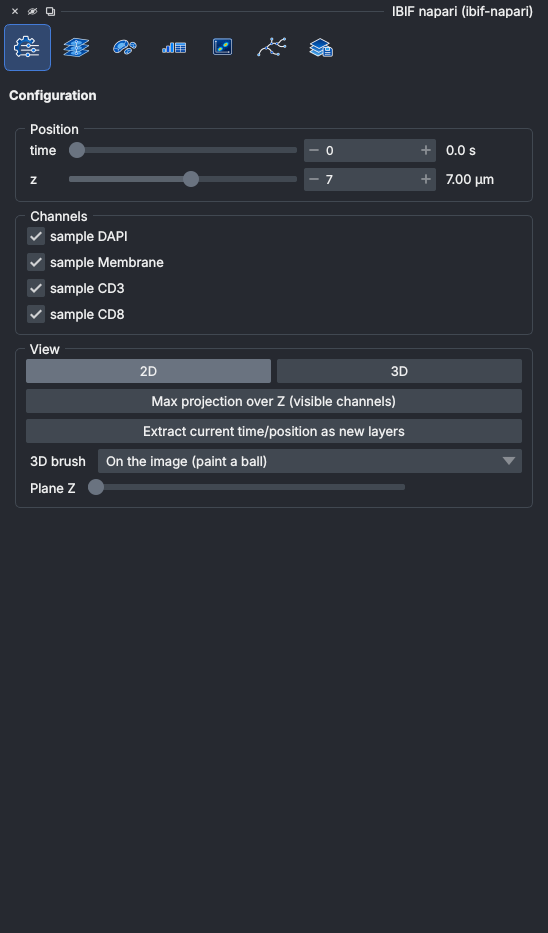
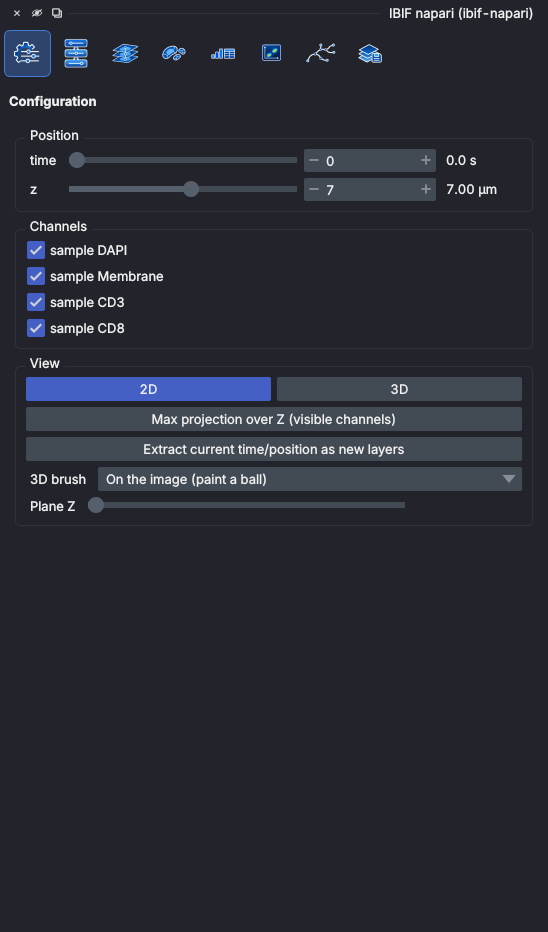
User guide: missing references and the newer features throughout (0.37.1)
References: VTEA's integrated cytometry paper (Winfree et al. 2023, Lab Invest,
PMID 36867975), cited in Cytometry, Neighbourhoods and Classification; NephNet3D
(Woloshuk et al. 2021); Benjamini & Hochberg; openTSNE; igraph; and a new
Processing group (IMART, phase correlation, Fourier rotation, Lucas-Kanade,
BaSiC, Richardson-Lucy) cited in the registration settings. Every citation in
the text now has its reference. docs/cytometry.md asks users to cite VTEA.

Completeness: Processing in the overview flowchart and table, the panel
screenshot and caption, saving, reporting, V&V, troubleshooting and glossary;
inclusions in the Secondary objects heading, the overview, reporting and
troubleshooting; the Cytometry overview lists its spatial, classification and
trajectory tabs.

Claude-Session: https://claude.ai/code/session_01J219xaVE2skdyHBwgvmFsC

diff --git a/src/ibif_napari/__init__.py b/src/ibif_napari/__init__.py
@@ -1,1 +1,1 @@
-__version__ = "0.37.0"
+__version__ = "0.37.1"

diff --git a/src/ibif_napari/manual/README.md b/src/ibif_napari/manual/README.md
@@ -25,7 +25,7 @@ section.
 6. [Configuration: moving through time, positions and Z](#6-configuration-moving-through-time-positions-and-z)
    - [6.1 Processing: correcting the image before segmenting](#61-processing-correcting-the-image-before-segmenting)
 7. [Segmentation: Cellpose, or threshold + watershed](#7-segmentation-cellpose-or-threshold--watershed)
-8. [Secondary objects: cells, cytoplasm, rings and rims](#8-secondary-objects-cells-cytoplasm-rings-and-rims)
+8. [Secondary objects: cells, cytoplasm, rings, rims and inclusions](#8-secondary-objects-cells-cytoplasm-rings-rims-and-inclusions)
 9. [Measurements](#9-measurements)
 10. [Cytometry: gating, phenotypes and clustering](#10-cytometry-gating-phenotypes-and-clustering)
 11. [Filament tracing](#11-filament-tracing)
@@ -48,8 +48,10 @@ looks like this:
 ```mermaid
 flowchart LR
     A[Open ND2 / CZI / LIF] --> B[Configuration<br/>choose time, position, channels]
-    B --> C[Segmentation<br/>Cellpose: nuclei or cells]
-    C --> D[Secondary objects<br/>whole cells, cytoplasm, rings]
+    B --> P[Processing<br/>registration, corrections]
+    P --> C[Segmentation<br/>Cellpose: nuclei or cells]
+    B --> C
+    C --> D[Secondary objects<br/>whole cells, cytoplasm, rings, inclusions]
     D --> E[Measurements<br/>size, position, intensity]
     E --> F[Cytometry<br/>gates, phenotypes, clusters]
     B --> G[Filament tracing<br/>neurons, microtubules]
@@ -60,10 +62,11 @@ flowchart LR
 | Section | What it is for | Main method |
 |---|---|---|
 | Configuration | Move through time points, stage positions and Z; turn channels on and off; 2D/3D view | — |
+| Processing | Correct the image before segmenting it: an ordered pipeline of steps | Stack registration (translation, rigid, affine, non-rigid; after IMART); illumination correction and deconvolution coming soon |
 | Segmentation | Find each nucleus or cell and give it a number | [Cellpose](https://www.cellpose.org) deep-learning segmentation, or a classical threshold + watershed (no GPU needed) |
-| Secondary objects | Build whole cells, cytoplasm, rings or rims from the first objects | Distance transforms and seeded watershed |
+| Secondary objects | Build whole cells, cytoplasm, rings or rims from the first objects, and find inclusions (vesicles, puncta, nucleoli) inside them | Distance transforms, seeded watershed; spots by intensity + watershed or Cellpose |
 | Measurements | Measure every object: size, position and intensity in every channel | Per-object statistics |
-| Cytometry | Classify objects into cell types by gating or clustering | Gating, UMAP / t-SNE / PCA, Leiden / Louvain / k-means |
+| Cytometry | Classify objects into cell types by gating, clustering or a trained model; describe their surroundings and neighbourhoods; follow lineages | VTEA's methods: gating, UMAP / t-SNE / PCA, Leiden / Louvain / k-means, spatial features, neighbourhoods, deep-learning classification, Slingshot / tradeSeq trajectories |
 | Filament tracing | Trace and measure branched filaments (neurons, microtubules) | Multi-scale Hessian "tubeness", skeletonization |
 | Save workspace | Save everything to come back to later or share | — |
 
@@ -173,8 +176,8 @@ under the buttons.
 
 ![The IBIF napari panel and its section buttons](images/03_panel.png)
 
-*The panel. The buttons are, from left to right: Configuration, Segmentation, Secondary
-objects, Measurements, Cytometry, Filament tracing and Save workspace.*
+*The panel. The buttons are, from left to right: Configuration, Processing, Segmentation,
+Secondary objects, Measurements, Cytometry, Filament tracing and Save workspace.*
 
 Useful napari basics:
 
@@ -312,8 +315,8 @@ The library has:
 
 - **Stack registration**: corrects movement between time points or Z planes (for example
   drift, breathing or heartbeat in intravital imaging).
-- **Illumination correction (BaSiC)** and **Deconvolution (Richardson–Lucy)**: marked
-  *coming soon*. They are listed with their planned settings, but cannot be added yet.
+- **Illumination correction (BaSiC)** (Peng et al. 2017) and **Deconvolution
+  (Richardson–Lucy)** (Richardson 1972; Lucy 1974): marked *coming soon*. They are listed with their planned settings, but cannot be added yet.
 
 **Stack registration** settings:
 
@@ -324,7 +327,10 @@ The library has:
 - **Transform**: **Translation** (shifts only: stage drift), **Rigid** (shifts and a rotation),
   **Affine** (also scaling and shear) or **Non-rigid** (rigid first, then a smooth local warp for
   tissue that deforms, as with breathing or heartbeat in intravital imaging; the two-stage
-  approach of IMART, Dunn et al. 2014).
+  approach of IMART, Dunn et al. 2014). Shifts are measured by phase correlation to a fraction
+  of a pixel (Guizar-Sicairos et al. 2008), rotations from the Fourier spectrum (Reddy &
+  Chatterji 1996) and then refined, and the non-rigid warp by optical flow (Lucas & Kanade
+  1981).
 - **Reference**: what each frame is registered to: the **first frame**, the **mean of the first
   frames** (less noisy), a **chosen frame**, or the **previous frame**, which follows slow
   changes but lets small errors add up (best along Z, where planes far apart look different).
@@ -540,7 +546,7 @@ Secondary objects. In the V&V suite this tab finds every separated nucleus in 2D
 
 ---
 
-## 8. Secondary objects: cells, cytoplasm, rings and rims
+## 8. Secondary objects: cells, cytoplasm, rings, rims and inclusions
 
 The **Secondary objects** section makes new objects from a first segmentation, usually
 nuclei. **Every new object keeps the number of the object it came from**, so measurements of
@@ -746,7 +752,9 @@ cytometry but on the image. You can gate objects on a scatter plot or on the ima
 **hierarchy of phenotypes** (for example *T cell > CD8 T cell*), find types by clustering, and
 show every type back on the image. The analysis is done by
 [vtea-core](https://github.com/winfrees/vtea-python), the Python library of VTEA
-(Volumetric Tissue Exploration and Analysis; Winfree et al. 2017). More detail is in
+(Volumetric Tissue Exploration and Analysis; Winfree et al. 2017), whose integrated
+cytometry, with machine-learning classification and neighbourhood analysis of large imaging
+datasets, is described in Winfree et al. 2023. More detail is in
 [docs/cytometry.md](https://github.com/CU-IBIF/Napari_Cellpose/blob/main/docs/cytometry.md).
 
 ### 10.1 Choosing the objects
@@ -938,7 +946,8 @@ reuses that search. Leiden runs on igraph's fast implementation (about 1 s for 5
 objects). It maximises modularity at least as well as the older leidenalg route, which on a
 small table of very uniform populations can split one population into two clusters: lower
 **Resolution**, or give both clusters the same phenotype name. t-SNE uses openTSNE, which uses
-every core. UMAP is compiled in the background when the workbench opens, so the first map
+every core (Poličar et al. 2024); Leiden and Louvain run on igraph (Csardi & Nepusz 2006).
+UMAP is compiled in the background when the workbench opens, so the first map
 does not wait for it.
 
 Everything (gates, phenotypes, clustering results and their maps, and how the workbench plot was set up: axes, scales, colours and point style) is saved with the workspace. If a clustering result is deleted, a gate drawn on its map selects nothing (the Gates list says *missing column*) until a clustering of the same name is run again. Phenotypes are
@@ -971,7 +980,7 @@ the selected feature.
 ### 10.6 Neighbourhoods
 
 The **Neighbourhoods** tab finds kinds of tissue neighbourhood: places with the same mix of
-cell types (Schürch et al. 2020). Each object's neighbourhood is itself and the objects within
+cell types (Schürch et al. 2020; in kidney tissue, Winfree et al. 2023). Each object's neighbourhood is itself and the objects within
 a **Radius** (or its **k** nearest). Its composition (the fraction of each class) is measured,
 and k-means sorts the neighbourhoods into **Types**. Each object gets its neighbourhood's
 type and composition as columns (*Neighbourhoods 1 neighbourhood*, *Neighbourhoods 1 fraction
@@ -1047,7 +1056,9 @@ depth: cells → their neighbourhoods → neighbourhoods of those neighbourhoods
 ### 10.7 Classification: learning cell types from examples
 
 The **Classification** tab learns cell types from objects you have already typed, and
-predicts them for every object, in this image or the next one.
+predicts them for every object, in this image or the next one. In kidney tissue, a deep
+learning classifier outperformed classical machine learning and shape-based ones
+(Winfree et al. 2023).
 
 1. Make phenotypes for some objects (by gating, clustering or rules): these are the
    examples.
@@ -1086,7 +1097,8 @@ them in a common folder and using **Browse…**.
 **A model is for the kind of object it was trained on.** At a spatial level (10.6.1), the
 **Model** list greys out the models that do not fit it, and says why. For example, a model
 trained on cells is not offered for neighbourhood windows, and an image-crop model such as
-NephNet3D (nuclei) is only offered for the segmented objects. To classify windows or
+NephNet3D (a 3D convolutional network that types kidney cells from their nuclear stain;
+Woloshuk et al. 2021) is only offered for the segmented objects. To classify windows or
 regions, train a model at that level, with that level's phenotypes as labels.
 
 ### 10.8 Trajectories: lineages through cell types and neighbourhoods
@@ -1128,7 +1140,7 @@ figures 5 and 6). It works on one dataset (the objects in use).
   This is the marker's "pseudotime spectrum".
 - **Features along a lineage**: every feature along one lineage, as a heat map.
 - **Which features change**: the tradeSeq tests, as −log10 of the q-value
-  (Benjamini–Hochberg; 2 means q = 0.01, higher is stronger). One row per test, overall
+  (Benjamini & Hochberg 1995; 2 means q = 0.01, higher is stronger). One row per test, overall
   and per lineage or pair of lineages:
   - **association**: the feature changes along the lineage;
   - **start vs end**: it differs between the lineage's start and end;
@@ -1251,8 +1263,9 @@ Two other filament plugins are installed and appear under **Plugins**:
 ![The Save workspace section](images/12_workspace.png)
 
 - **Save workspace…** saves everything in one `.ibif` folder: all layers with their display
-  settings, the view, the measurement tables and the cytometry gates, phenotypes and
-  clusters. Microscope files are *referenced*, not copied, and are found again if you move
+  settings, the view, the measurement tables, the cytometry gates, phenotypes and
+  clusters, and the Processing pipeline. Processed layers (`[processed]`) are saved as copies,
+  with the steps and settings that made them. Microscope files are *referenced*, not copied, and are found again if you move
   the workspace together with the data. Tick **Include copies of the images** to share the
   workspace with someone who does not have the original files.
 - **Open workspace…** restores it. You can also drag the `.ibif` folder onto the window or
@@ -1307,16 +1320,24 @@ and reproducible (Senft et al. 2023; Aaron & Chew 2021; Schmied et al. 2024):
 - Use the **same settings** for all conditions, and decide them on a subset before looking at
   the results. If possible, analyse blind to condition.
 - Keep raw data unchanged. Display settings (contrast, colours) do not change measurements,
-  but processing does.
+  but processing does: the Processing section makes new layers and keeps the originals. Check
+  a registration by playing the processed layer, and measure intensities on the layer you
+  intend to report (interpolation smooths noise a little).
 - Save a workspace and the exported tables for each analysis.
 
 **What to report in your methods section**
 
 - Software and version: *IBIF napari* (version shown by `pip show ibif-napari`), napari,
   Cellpose and the model name (e.g. `cpsam_v2`), with citations.
+- Processing: each step in order with its settings; for registration, the axis, transform,
+  reference, and the correlation with the reference before and after (from the exported
+  transforms). Say which layers were processed and which were measured.
 - Segmentation settings: mode (3D or 2D stitched), diameter, flow and cell-probability
   thresholds, minimum size, and any manual corrections.
-- Secondary objects: method, channel, threshold method and factor, distances.
+- Secondary objects: method, channel, threshold method and factor, distances. For
+  inclusions: what was found (spots, filaments, regions), the method (intensity +
+  watershed, or Cellpose and its model), the split of touching inclusions and the inclusion
+  diameter, smoothing and smallest inclusion.
 - Measurements: which statistics, background subtraction, and units.
 - Cytometry: transforms, gate positions and how they were chosen; for clustering, the
   features, scaling, map, method, its parameters and the seed.
@@ -1350,6 +1371,12 @@ and [docs/vv/requirements.md](https://github.com/CU-IBIF/Napari_Cellpose/blob/ma
 measures correctly; they cannot show that Cellpose segments *your* images well. Check that
 on your own data, as described in [section 7.5](#75-checking-and-correcting-the-result).
 
+The suite also covers Secondary objects (VV-SEC: expand, rings, whole cells, inclusions split
+by the watershed and linked to their object, spots found by Cellpose) and Processing
+(VV-PROC: the pipeline, and stack registration on moving samples with a known movement:
+shifts, rotations, scaling, smooth warps, several channels, a drifting time-lapse, and the
+same result on a server).
+
 The Threshold + watershed tab needs no model, so its requirements (VV-SEG-07 to 09) run on
 every V&V run. You can also score the whole suite's segmentation requirements with it, for
 example on a computer without Cellpose:
@@ -1374,7 +1401,12 @@ ibif-napari-vv all vv --backend classic
 | Many merged or split objects | Set **Diameter**; adjust **Flow threshold** and **Cell probability**; try another model; train a custom model. |
 | Cells leak into each other in Secondary objects | Use **Max distance**, raise **Threshold ×**, increase **Smoothing**, or switch between *Membranes* and *Cytoplasm*. |
 | Whole cells look like rings, or a membrane gets the wrong cell's colour | Update to version 0.19.2 or later, which counts the dark inside of each cell as cell. |
-| A cell from a membrane stain spreads into the background | Its membrane has a gap. Increase **Smoothing** or lower **Threshold ×**, and set a **Max distance** ([section 8](#8-secondary-objects-cells-cytoplasm-rings-and-rims)). |
+| A cell from a membrane stain spreads into the background | Its membrane has a gap. Increase **Smoothing** or lower **Threshold ×**, and set a **Max distance** ([section 8](#8-secondary-objects-cells-cytoplasm-rings-rims-and-inclusions)). |
+| Touching inclusions counted as one | Choose **Split touching: Watershed**, lower **Inclusion diameter**, and keep **Smoothing** well below the spot size (about 0.1 µm for spots 1 µm across). |
+| Single inclusions cut in two | Raise **Inclusion diameter**, or use **Watershed (intensity)** for spots brightest in the middle. |
+| **Cellpose** is greyed out under Method (spots) | Its tooltip says why: Cellpose is not installed here and no server is chosen in Segmentation → Cellpose, or the cluster there is not connected. |
+| A registered layer still moves | Try **Rigid** or **Non-rigid**, a little **Smoothing**, or **Mean of the first frames** as reference; along Z use **Previous frame**. Frames marked *registered: False* in the transforms moved more than **Maximum shift**. |
+| Processing on a server reports it cannot run pipelines, or the image is too large | Update the server to 0.37 or later; for size, process fewer channels or the **Current position**, or run on this computer. |
 | A CZI or LIF file reports a missing package | `pip install bioio-czi bioio-lif` |
 | Something else | Start `ibif-napari` from a terminal and read the messages there; report problems at [github.com/CU-IBIF/Napari_Cellpose/issues](https://github.com/CU-IBIF/Napari_Cellpose/issues). |
 
@@ -1389,11 +1421,16 @@ ibif-napari-vv all vv --backend classic
 | **Centroid** | Centre of mass of an object |
 | **Channel** | Image of one fluorophore |
 | **Gate** | A region on a scatter plot (or image) that selects objects |
+| **Inclusion** | A structure inside an object (vesicle, punctum, nucleolus), found by Secondary objects; linked to its object by number |
 | **Labels image** | Image whose values are object numbers (0 = background) |
 | **Layer** | One item in napari's layer list: image, labels, shapes, points |
 | **Maximum-intensity projection** | 2D image with the brightest value along Z at each pixel |
+| **Neighbourhood** | An object and the objects around it (within a radius or its nearest k); its mix of cell types defines its type |
 | **Phenotype** | A named cell type defined by gates or rules, arranged in a hierarchy |
+| **Pipeline** | An ordered list of Processing steps, run one after the other |
+| **Pseudotime** | Position along an inferred lineage, from its start (Trajectories) |
 | **Primary / secondary objects** | Objects found directly (e.g. nuclei) / built from them (e.g. cells) |
+| **Registration** | Aligning frames (time points or Z planes) so the same structure is in the same place; rigid moves and turns, affine also scales, non-rigid warps locally |
 | **Seeded watershed** | Region growing from seeds over an image "landscape"; regions meet at ridges |
 | **Segmentation** | Assigning every pixel to an object or background |
 | **Skeleton** | One-voxel-wide centre line of a shape |
@@ -1417,9 +1454,39 @@ ibif-napari-vv all vv --backend classic
   to study kidney tissue and resident immune cells. *J Am Soc Nephrol* 28:2108–2118 (2017).
   [doi:10.1681/ASN.2016091027](https://doi.org/10.1681/ASN.2016091027);
   vtea-core: [github.com/winfrees/vtea-python](https://github.com/winfrees/vtea-python)
+- VTEA integrated cytometry: Winfree S, et al. Integrated cytometry with machine learning
+  applied to high-content imaging of human kidney tissue for in situ cell classification and
+  neighborhood analysis. *Lab Invest* 103:100104 (2023).
+  [doi:10.1016/j.labinv.2023.100104](https://doi.org/10.1016/j.labinv.2023.100104)
+  (PMID [36867975](https://pubmed.ncbi.nlm.nih.gov/36867975/))
+- igraph: Csardi G, Nepusz T. The igraph software package for complex network research.
+  *InterJournal Complex Systems* 1695 (2006). [igraph.org](https://igraph.org)
+- openTSNE: Poličar PG, Stražar M, Zupan B. openTSNE: a modular Python library for t-SNE
+  dimensionality reduction and embedding. *J Stat Softw* 109(3):1–30 (2024).
+  [doi:10.18637/jss.v109.i03](https://doi.org/10.18637/jss.v109.i03)
 - CellProfiler: Stirling DR, Swain-Bowden MJ, Lucas AM, Carpenter AE, Cimini BA, Goodman A.
   CellProfiler 4: improvements in speed, utility and usability. *BMC Bioinformatics* 22:433
   (2021). [doi:10.1186/s12859-021-04344-9](https://doi.org/10.1186/s12859-021-04344-9)
+
+**Processing**
+
+- Dunn KW, Lorenz KS, Salama P, Delp EJ. IMART software for correction of motion artifacts in
+  images collected in intravital microscopy. *IntraVital* 3:e28210 (2014).
+  [doi:10.4161/intv.28210](https://doi.org/10.4161/intv.28210)
+- Guizar-Sicairos M, Thurman ST, Fienup JR. Efficient subpixel image registration algorithms.
+  *Opt Lett* 33:156–158 (2008). [doi:10.1364/OL.33.000156](https://doi.org/10.1364/OL.33.000156)
+- Reddy BS, Chatterji BN. An FFT-based technique for translation, rotation, and
+  scale-invariant image registration. *IEEE Trans Image Process* 5:1266–1271 (1996).
+  [doi:10.1109/83.506761](https://doi.org/10.1109/83.506761)
+- Lucas BD, Kanade T. An iterative image registration technique with an application to stereo
+  vision. *Proc. 7th International Joint Conference on Artificial Intelligence*, 674–679 (1981).
+- Peng T, Thorn K, Schroeder T, et al. A BaSiC tool for background and shading correction of
+  optical microscopy images. *Nat Commun* 8:14836 (2017).
+  [doi:10.1038/ncomms14836](https://doi.org/10.1038/ncomms14836)
+- Richardson WH. Bayesian-based iterative method of image restoration. *J Opt Soc Am*
+  62:55–59 (1972). [doi:10.1364/JOSA.62.000055](https://doi.org/10.1364/JOSA.62.000055)
+- Lucy LB. An iterative technique for the rectification of observed distributions. *Astron J*
+  79:745–754 (1974). [doi:10.1086/111605](https://doi.org/10.1086/111605)
 
 **Segmentation**
 
@@ -1483,6 +1550,12 @@ ibif-napari-vv all vv --backend classic
 - Levine JH, Simonds EF, Bendall SC, et al. Data-driven phenotypic dissection of AML reveals
   progenitor-like cells that correlate with prognosis. *Cell* 162:184–197 (2015).
   [doi:10.1016/j.cell.2015.05.047](https://doi.org/10.1016/j.cell.2015.05.047)
+- Woloshuk A, Khochare S, Almulhim AF, et al. In situ classification of cell types in human
+  kidney tissue using 3D nuclear staining. *Cytometry A* 99:707–721 (2021).
+  [doi:10.1002/cyto.a.24274](https://doi.org/10.1002/cyto.a.24274)
+- Benjamini Y, Hochberg Y. Controlling the false discovery rate: a practical and powerful
+  approach to multiple testing. *J R Stat Soc B* 57:289–300 (1995).
+  [doi:10.1111/j.2517-6161.1995.tb02031.x](https://doi.org/10.1111/j.2517-6161.1995.tb02031.x)
 - Lloyd SP. Least squares quantization in PCM. *IEEE Trans Inf Theory* 28:129–137 (1982).
   [doi:10.1109/TIT.1982.1056489](https://doi.org/10.1109/TIT.1982.1056489)
 - Schwarz G. Estimating the dimension of a model. *Ann Stat* 6:461–464 (1978).

diff --git a/docs/cytometry.md b/docs/cytometry.md
@@ -10,6 +10,17 @@ headless Python library. IBIF napari is the interface on top of it. New analysis
 methods (spatial features, neighbourhoods, reference annotation) are added to
 vtea-core, so VTEA and IBIF napari share them.
 
+Please cite VTEA when you use the Cytometry section:
+
+- Winfree S, Khan S, Micanovic R, et al. Quantitative three-dimensional tissue cytometry to
+  study kidney tissue and resident immune cells. *J Am Soc Nephrol* 28:2108–2118 (2017).
+  [doi:10.1681/ASN.2016091027](https://doi.org/10.1681/ASN.2016091027)
+- Winfree S, et al. Integrated cytometry with machine learning applied to high-content
+  imaging of human kidney tissue for in situ cell classification and neighborhood analysis.
+  *Lab Invest* 103:100104 (2023).
+  [doi:10.1016/j.labinv.2023.100104](https://doi.org/10.1016/j.labinv.2023.100104)
+  (PMID [36867975](https://pubmed.ncbi.nlm.nih.gov/36867975/))
+
 ## Using it
 
 1. **Measure the objects first.** In the Measurements section, tick the objects
